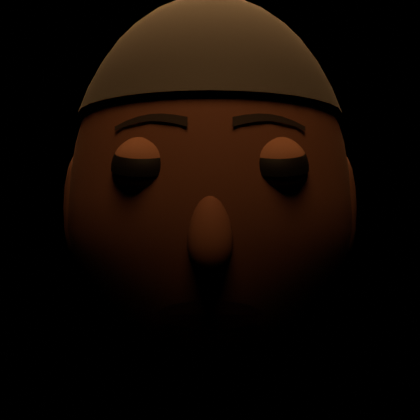
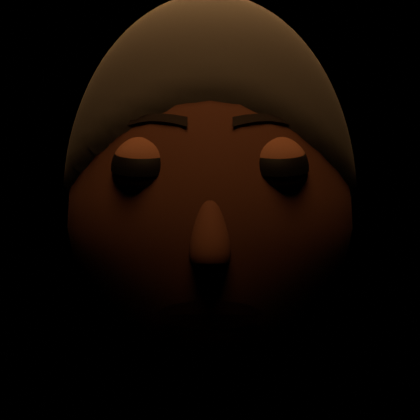
Design: rig v3 hair, nose and ears
Claude-Session: https://claude.ai/code/session_01W37kuJaPfCxGNG6Qm9m3cN

diff --git a/film/design/rig/heads.py b/film/design/rig/heads.py
@@ -261,10 +261,17 @@ def build_head(name, collection=None, mats=None, pass_face=1, pass_hair=2):
 
     # neck stub (the TA's neck limb meets it)
     # nose: a soft wedge
-    bm = _sphere(1.0, 16, 10)
+    # nose: a wedge, narrow at the bridge, widening to the nostrils, flat underneath (not a ball)
+    bm = _sphere(1.0, 20, 14)
     for v in bm.verts:
         c = v.co
-        v.co = Vector((c.x * 0.0115 * (0.75 + 0.35 * (1 - c.z) / 2), c.y * 0.010 + (0.004 if c.y > 0 else 0) * (0.5 - 0.5 * c.z), c.z * 0.019))
+        t = (1 - c.z) / 2                      # 0 at the bridge, 1 at the base
+        wx = 0.0055 + 0.0085 * t ** 1.4        # half-width
+        proj = 0.003 + 0.010 * t ** 0.8        # forward projection grows toward the tip
+        z = c.z * 0.021
+        if c.z < -0.75:                        # flatten the underside
+            z = -0.75 * 0.021 - (c.z + 0.75) * 0.004
+        v.co = Vector((c.x * wx, c.y * (proj if c.y > 0 else 0.006), z))
     nz = -0.020
     bm_obj = _mesh_obj(f"{name}_HD_NOSE", bm, [M["skin"]], collection, root, pass_index=pass_face)
     bm_obj.location = (0, skull.front_y(0, nz) - 0.002, nz)
@@ -273,9 +280,9 @@ def build_head(name, collection=None, mats=None, pass_face=1, pass_hair=2):
     for sx in (-1, 1):
         bm = _sphere(1.0, 12, 8)
         for v in bm.verts:
-            v.co = Vector((v.co.x * 0.008, v.co.y * 0.016, v.co.z * (0.032 if name != "WALTER" else 0.037)))
+            v.co = Vector((v.co.x * 0.007, v.co.y * 0.014, v.co.z * (0.028 if name != "WALTER" else 0.036)))
         e = _mesh_obj(f"{name}_HD_EAR_{'R' if sx > 0 else 'L'}", bm, [M["skin"]], collection, root, pass_index=pass_face)
-        e.location = (sx * skull.rx * 0.97, -0.006, -0.004)
+        e.location = (sx * skull.rx * 0.95, -0.008, -0.006)
 
     # eyes
     for side, sx in (("L", -1), ("R", 1)):
@@ -454,22 +461,38 @@ def _mouth(name, s, skull, M, root, collection, pf):
 
 
 def _hair(name, s, skull, M, root, collection, ph):
-    def cap(keep, grow=1.06, nm="HAIR"):
-        bm = _sphere(1.0, 32, 22)
-        bmesh.ops.delete(bm, geom=[v for v in bm.verts if not keep(v.co)], context="VERTS")
+    """Hair as a smooth shell over the skull. Below the hairline the shell sinks under the skin,
+    so the hairline is a clean painted edge, not a cut mesh."""
+
+    def ss(e0, e1, x):
+        t = max(0.0, min(1.0, (x - e0) / (e1 - e0)))
+        return t * t * (3 - 2 * t)
+
+    def shell(field, grow, nm="HAIR", band=0.07):
+        bm = _sphere(1.0, 64, 44)
         for v in bm.verts:
-            p = skull.shape(v.co)
-            v.co = p * grow
+            c = v.co.copy()
+            k = ss(-band, band, field(c))
+            g = 0.93 + (grow(c) - 0.93) * k
+            v.co = skull.shape(c) * g
         return _mesh_obj(f"{name}_HD_{nm}", bm, [M["hair"]], collection, root, pass_index=ph)
 
+    def hairline(front, side, back, part=0.0):
+        def hz(c):
+            a = abs(math.atan2(c.x, c.y)) / math.pi        # 0 front, 0.5 sides, 1 back
+            z = front + (side - front) * ss(0.0, 0.5, a) + (back - side) * ss(0.5, 1.0, a)
+            return z - part * c.x * (1 - ss(0.0, 0.3, a))
+        return lambda c: c.z - hz(c)
+
     if name == "NOOR":
-        # swept back from a hairline at the top of the forehead; low bun at the nape
-        cap(lambda c: c.z > 0.42 - 0.75 * max(0.0, -c.y) + 0.06 * c.x or (c.y < -0.25 and c.z > -0.55), 1.05)
-        bm = _sphere(0.032, 16, 12)
+        # side-parted, swept back over the tops of the ears into a low bun at the nape
+        shell(hairline(0.42, 0.02, -0.62, part=0.08), lambda c: 1.05 + 0.04 * max(0.0, c.z) * (1 - 0.5 * max(0.0, c.y)))
+        bm = _sphere(0.034, 18, 12)
         bun = _mesh_obj(f"{name}_HD_BUN", bm, [M["hair"]], collection, root, pass_index=ph)
-        bun.location = (0, -skull.ry * 0.95, -0.055)
+        bun.location = (0, -skull.ry * 0.98, -0.058)
+        bun.scale = (1.15, 0.85, 0.9)
     elif name == "KAI":
-        cap(lambda c: c.z > 0.30 - 0.9 * max(0.0, -c.y) or (c.y < -0.2 and c.z > -0.45), 1.09)
+        shell(hairline(0.26, 0.05, -0.5), lambda c: 1.09 + 0.05 * max(0.0, c.z))
         for i, (x, y, z, r) in enumerate([(-0.03, 0.06, 0.085, 0.022), (0.025, 0.07, 0.08, 0.02), (0.0, 0.03, 0.105, 0.028),
                                           (0.045, 0.0, 0.095, 0.022), (-0.05, -0.01, 0.09, 0.022)]):
             bm = _sphere(r, 12, 8)
@@ -477,9 +500,12 @@ def _hair(name, s, skull, M, root, collection, ph):
             lk.location = (x, y, z)
             lk.scale = (1.0, 0.8, 0.55)
     elif name == "BEA":
-        cap(lambda c: c.z > 0.38 - 0.9 * max(0.0, -c.y) or (c.y < -0.3 and c.z > -0.4), 1.04)
+        shell(hairline(0.38, -0.02, -0.45), lambda c: 1.045)
     elif name == "WALTER":
-        cap(lambda c: (abs(c.x) > 0.6 and -0.3 < c.z < 0.45 and c.y < 0.05) or (c.y < -0.35 and -0.4 < c.z < 0.55), 1.02, "HAIR_SIDES")
+        # bald on top: a band of white hair round the sides and back
+        side = hairline(1.5, -0.32, -0.4)
+        top = hairline(0.5, 0.5, 0.55)
+        shell(lambda c: min(side(c), -top(c)) if abs(math.atan2(c.x, c.y)) > 0.3 * math.pi else -1.0, lambda c: 1.025, "HAIR_SIDES")
 
 
 # ------------------------------------------------------------------ placing and keying

diff --git a/film/STATUS.md b/film/STATUS.md
@@ -41,3 +41,4 @@ Append-only log. Newest at the bottom. Format: `- [role] what happened (file)`
 - [ta] Look-dev v2 (Director R1/R2, human's stronger-paint note): surface brush dabs with per-dab normal tilt (terminator break-up), static set-only painted-board multiply, faceted figures, sculpted Noor (lib/noor.py) used in sf06/sf08, wall A darkened for R2. All 9 frames re-rendered at 1280px; checks re-run: blackout 0, strap, keys, asleep-identical PASS; catchlight row PARTIAL (cg/stills/, cg/stills/checks/REPORT.md)
 - [designer] Redline of TA's Noor sculpt 01: 10 notes (skin value/hue, lid coverage, brows, nose, hair, ears, neck, blazer value, dab contrast) (design/redlines/noor-sculpt-01.svg/.png)
 - [ta] v2.1: Designer's face rig (design/rig/heads.py) integrated for all four heads with painted materials; Bea F2 lids via rig; luminance-masked Kuwahara for darks; satin rails (DP). All 9 frames re-rendered, checks re-run: blackout 0, strap, keys, asleep-identical PASS; E2 PASS; E3 PASS under BROWN; E1 PARTIAL (P12 sub-pixel at C75) (cg/stills/checks/REPORT.md)
+- [designer] Rig v3: smooth painted hairlines (Noor side-parted sweep + bun, Kai, Bea, Walter's side band), nose as a wedge, smaller ears (design/rig/heads.py). Flagged a colour-fidelity issue in sf06 to the TA (characters render lighter/desaturated vs palette: blazer brighter than the wall)
